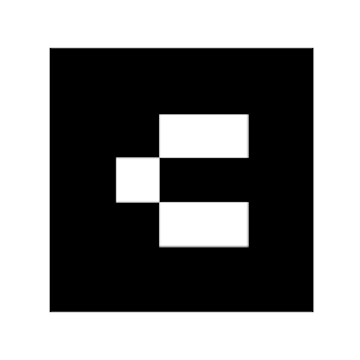
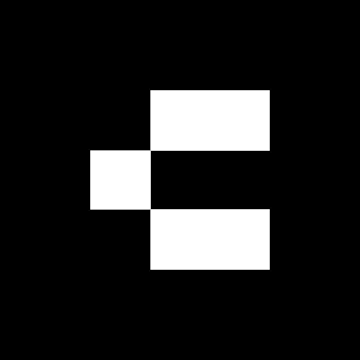
t

diff --git a/index.html b/index.html
@@ -45,6 +45,10 @@
             <a-image position='0 1.1 0' rotation="90 0 0" scale="1.5 1.5 1.5" src="images/Letter-D.png"></a-image>
         </a-marker>
 
+        <a-marker type='barcode' value='7' >
+            <a-image position='0 1.1 0' rotation="90 0 0" scale="1.5 1.5 1.5" src="images/Arrow.png"></a-image>
+        </a-marker>
+
         <a-entity camera></a-entity>
         </a-scene>
     </body>
